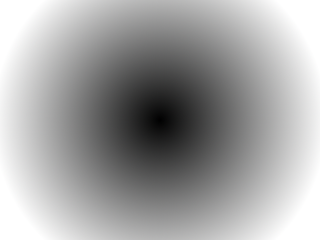
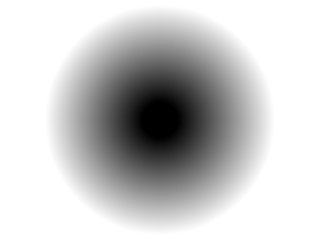
moving camera

diff --git a/main.c b/main.c
@@ -61,26 +61,26 @@ int main(int argc, char *argv[])
 	SDL_ShowCursor(SDL_DISABLE);
 
 	SDL_Surface *texture = IMG_Load("checker.png");
-    texture = SDL_DisplayFormat(texture);
+	texture = SDL_DisplayFormat(texture);
 	SDL_Surface *shadow = IMG_Load("shadow.png");
 
-	int distmap[SCREEN_HEIGHT][SCREEN_WIDTH];
-	for (int y = 0; y < SCREEN_HEIGHT; ++y)
+	int distmap[2 * SCREEN_HEIGHT][2 * SCREEN_WIDTH];
+	for (int y = 0; y < 2 * SCREEN_HEIGHT; ++y)
 	{
-		int yy = y - SCREEN_HEIGHT / 2;
-		for (int x = 0; x < SCREEN_WIDTH; ++x)
+		int yy = y - SCREEN_HEIGHT;
+		for (int x = 0; x < 2 * SCREEN_WIDTH; ++x)
 		{
-			int xx = x - SCREEN_WIDTH / 2;
+			int xx = x - SCREEN_WIDTH;
 			distmap[y][x] = (int)(2 * TEXTURE_SIZE * (SCREEN_WIDTH / 2) / sqrt(xx * xx + yy * yy)) % TEXTURE_SIZE;
 		}
 	}
-	int anglemap[SCREEN_HEIGHT][SCREEN_WIDTH];
-	for (int y = 0; y < SCREEN_HEIGHT; ++y)
+	int anglemap[2 * SCREEN_HEIGHT][2 * SCREEN_WIDTH];
+	for (int y = 0; y < 2 * SCREEN_HEIGHT; ++y)
 	{
-		int yy = y - SCREEN_HEIGHT / 2;
-		for (int x = 0; x < SCREEN_WIDTH; ++x)
+		int yy = y - SCREEN_HEIGHT;
+		for (int x = 0; x < 2 * SCREEN_WIDTH; ++x)
 		{
-			int xx = x - SCREEN_WIDTH / 2;
+			int xx = x - SCREEN_WIDTH;
 			anglemap[y][x] = (int)(8 * TEXTURE_SIZE * ((atan2(yy, xx) / M_PI) + 1)) % TEXTURE_SIZE;
 		}
 	}
@@ -88,6 +88,8 @@ int main(int argc, char *argv[])
 	double move_speed = TEXTURE_SIZE;
 	double angle_offset = 0;
 	double dist_offset = 0;
+	double shift_x = 0;
+	double shift_y = 0;
 
 	bool quit = false;
 	Uint32 curr = SDL_GetTicks();
@@ -159,18 +161,23 @@ int main(int argc, char *argv[])
 		int aoff = angle_offset;
 		int doff = dist_offset;
 
+		shift_x = (SCREEN_WIDTH / 12) * sin(2 * curr / 1000.0) + (SCREEN_WIDTH / 2);
+		shift_y = (SCREEN_HEIGHT / 12) * cos(3 * curr / 1000.0) + (SCREEN_HEIGHT / 2);
+		int sx = shift_x;
+		int sy = shift_y;
+
 		SDL_FillRect(screen, NULL, SDL_MapRGB(screen->format, 0, 0, 0));
 		SDL_LockSurface(screen);
 		for (int y = 0; y < SCREEN_HEIGHT; ++y)
 			for (int x = 0; x < SCREEN_WIDTH; ++x)
 			{
-				int tx = (anglemap[y][x] + aoff) % TEXTURE_SIZE;
-				int ty = (distmap[y][x] + doff) % TEXTURE_SIZE;
+				int tx = (anglemap[y + sy][x + sx] + aoff) % TEXTURE_SIZE;
+				int ty = (distmap[y + sy][x + sx] + doff) % TEXTURE_SIZE;
 				Uint32 c = getPixel(texture, tx, ty);
 				setPixel(screen, x, y, c);
 			}
 		SDL_UnlockSurface(screen);
-		SDL_BlitSurface(shadow, NULL, screen, NULL);
+		SDL_BlitSurface(shadow, NULL, screen, &(SDL_Rect){ .x = -sx + (SCREEN_WIDTH / 2), .y = -sy + (SCREEN_HEIGHT / 2) });
 		if (fps_on)
 			fps_draw();
 		SDL_Flip(screen);
